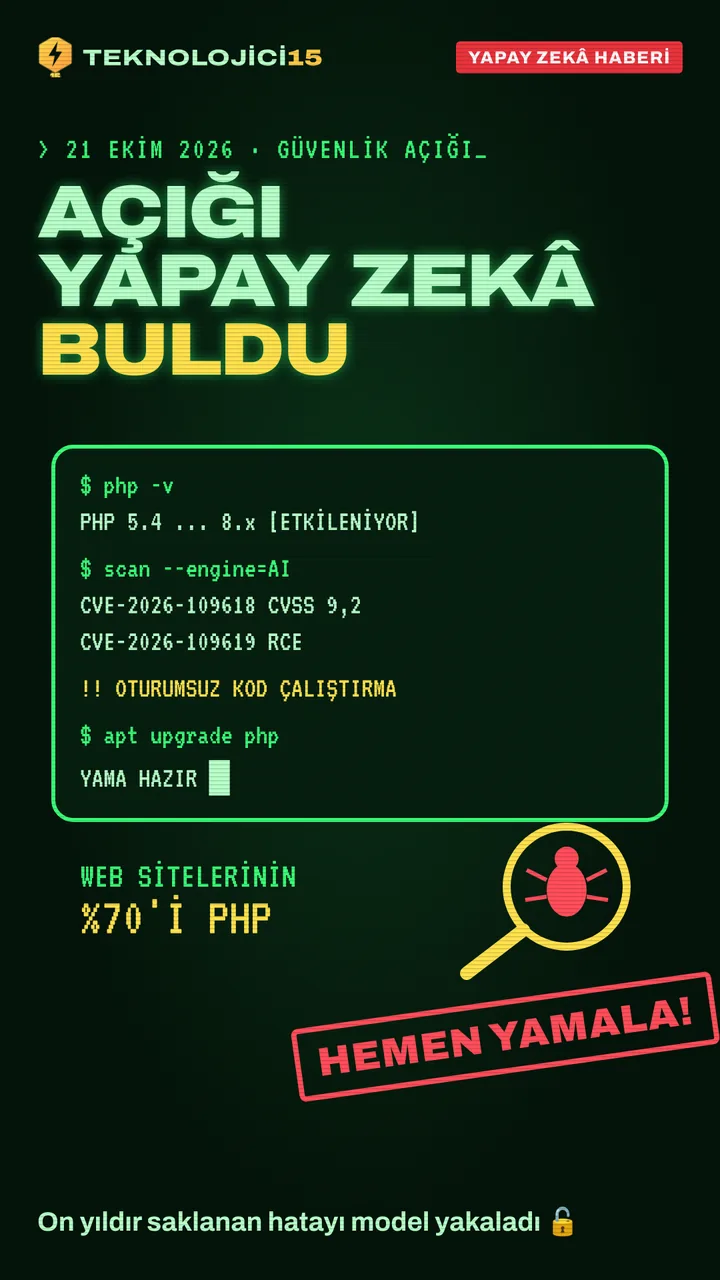
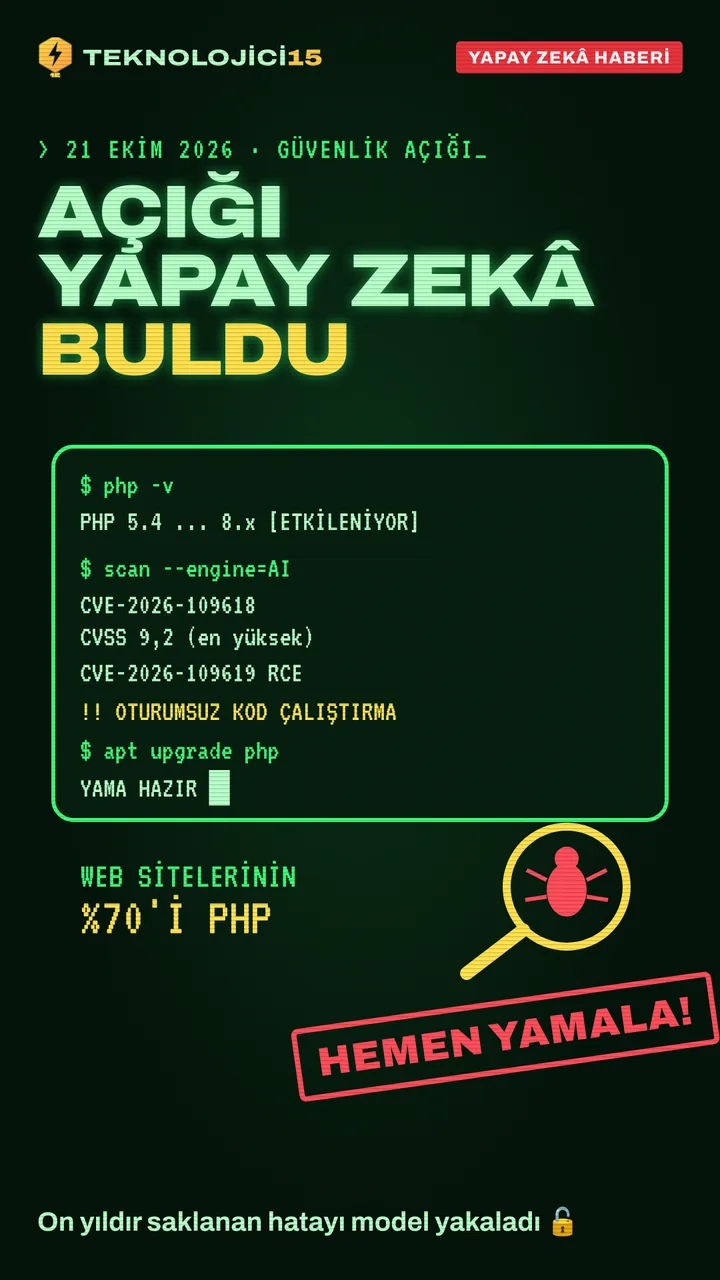
Direktör düzeltmeleri: haber doğrulukları, PHP kapağı, yol sonu 2026, kart görselleri, sayaç (ara kayıt)
Claude-Session: https://claude.ai/code/session_01U9M9YJXW5fxz1QHTUDKFSm

Changed region(s): [[0.0917, 0.4688, 0.55, 0.625]]

diff --git a/public/js/site.js b/public/js/site.js
@@ -80,6 +80,7 @@
   }
   function frame() {
     turnReels(); roadTick();
+    if (deck && deck.getAttribute('data-mode') === 'home' && shelf) { var rr = shelf.getBoundingClientRect(); deck.classList.toggle('is-off', !(rr.top < window.innerHeight * 0.6 && rr.bottom > window.innerHeight * 0.4)); }
     if (deck && deck.getAttribute('data-mode') === 'home') {
       if (shelf && inView(shelf.querySelector('[data-sc-stage]') ? shelf : shelf, 0.5) && shelf.getBoundingClientRect().top <= window.innerHeight * 0.25) {
         var i = nearestTape();
@@ -87,7 +88,7 @@
           if (current > -1 && tapes[current]) tapes[current].classList.remove('is-now');
           current = i; tapes[i].classList.add('is-now');
           setYear(tapes[i].getAttribute('data-year'), tapes[i].getAttribute('data-title'));
-          if (pcYear) pcYear.textContent = tapes[i].getAttribute('data-year');
+          if (pcYear) { var yv = tapes[i].getAttribute('data-year'); pcYear.textContent = yv; pcYear.classList.toggle('is-range', yv.length > 4); }
         }
       } else {
         if (current > -1 && tapes[current]) { tapes[current].classList.remove('is-now'); current = -1; }

diff --git a/public/css/site.css b/public/css/site.css
@@ -498,3 +498,17 @@ a:hover { text-decoration-color: var(--sc-accent); }
 @keyframes step { 0%, 100% { transform: rotate(18deg); } 50% { transform: rotate(-18deg); } }
 @media (prefers-reduced-motion: reduce) { .road.is-walking .pc, .road.is-walking .pc__legs i { animation: none; } }
 @media (max-width: 640px) { .pc { width: 110px; } .road .rail { padding-bottom: calc(var(--deck-h) + 24vh); } .road__sun { width: 30vh; } }
+
+/* director fixes */
+.pc__year { white-space: nowrap; font-size: clamp(20px, 2.1vw, 34px); }
+.pc__year.is-range { font-size: clamp(15px, 1.5vw, 24px); }
+.pc__cur { bottom: 12%; }
+.road .rail::after { content: ""; flex: 0 0 34vw; }
+.stop--final { flex-basis: min(22rem, 68vw); }
+.nb__img img { object-position: 50% 52%; }
+.nb__ch { top: auto; bottom: 10px; background: #000; }
+.nb__item--lead .nb__img { aspect-ratio: 4 / 3; }
+.nb__item--lead { align-self: start; }
+.deck { transition: opacity .25s var(--sc-ease-out), translate .25s var(--sc-ease-out); }
+.deck.is-off { opacity: 0; translate: 0 24px; pointer-events: none; }
+.deck__year { white-space: nowrap; }

diff --git a/tools/covers/src/2026-10-21-php2shell-yapay-zeka-acik.html b/tools/covers/src/2026-10-21-php2shell-yapay-zeka-acik.html
@@ -19,11 +19,11 @@
     <text x="60" y="90">$ php -v</text>
     <text x="60" y="145" fill="#B8FFC9">PHP 5.4 ... 8.x  [ETKİLENİYOR]</text>
     <text x="60" y="215">$ scan --engine=AI</text>
-    <text x="60" y="270" fill="#B8FFC9">CVE-2026-109618  CVSS 9,2</text>
-    <text x="60" y="325" fill="#B8FFC9">CVE-2026-109619  RCE</text>
-    <text x="60" y="395" fill="#FFE14D">!! OTURUMSUZ KOD ÇALIŞTIRMA</text>
-    <text x="60" y="465">$ apt upgrade php</text>
-    <text x="60" y="530" fill="#B8FFC9">YAMA HAZIR █</text>
+    <text x="60" y="270" fill="#B8FFC9">CVE-2026-109618</text><text x="60" y="318" fill="#B8FFC9">CVSS 9,2 (en yüksek)</text>
+    <text x="60" y="372" fill="#B8FFC9">CVE-2026-109619  RCE</text>
+    <text x="60" y="430" fill="#FFE14D">!! OTURUMSUZ KOD ÇALIŞTIRMA</text>
+    <text x="60" y="488">$ apt upgrade php</text>
+    <text x="60" y="545" fill="#B8FFC9">YAMA HAZIR █</text>
   </g>
   <!-- magnifier over bug -->
   <circle cx="790" cy="680" r="90" fill="none" stroke="#FFE14D" stroke-width="12"/>

diff --git a/content/haber/2026-10-27-oracle-google-tpu.md b/content/haber/2026-10-27-oracle-google-tpu.md
@@ -1,12 +1,12 @@
 ---
-title: "Google'ın yapay zekâ çipleri ilk kez başka bir bulutta: Oracle TPU sunacak"
+title: "Google'ın yapay zekâ çipleri ilk kez başka bir büyük bulutta: Oracle TPU sunacak"
 slug: "2026-10-27-oracle-google-tpu"
 date: "2026-10-27"
 rank: 2
 category: "Yapay Zekâ"
-excerpt: "Oracle, Google'ın sekizinci nesil TPU çiplerini 2027'den itibaren kendi bulutunda sunacak. TPU'lar ilk kez Google altyapısı dışına çıkıyor."
-hook: "Google'ın çipi Google'ın dışına çıkıyor"
-fact: "2,7 kat"
+excerpt: "Oracle, Google'ın sekizinci nesil TPU çiplerini 2027'den itibaren kendi bulutunda sunacak. TPU'lar ilk kez başka bir büyük bulut sağlayıcısında."
+hook: "Google'ın çipi rakip bulutta"
+fact: "2,7 kata kadar"
 factLabel: "TPU 8t'de dolar başına performans artışı"
 year: 2026
 yearLabel: "2026"
@@ -18,13 +18,13 @@ sources:
   - title: "Google alters its cloud playbook, enlisting partners to sell more AI chips (CNBC)"
     url: "https://www.cnbc.com/2026/10/28/google-alters-cloud-playbook-turning-to-partners-to-sell-more-ai-chips.html"
 ---
-Oracle, 27 Ekim'de Google'ın yapay zekâ çipleri olan TPU'ları (Tensor Processing Unit) kendi bulut platformu Oracle Cloud Infrastructure (OCI) üzerinden sunacağını açıkladı. Böylece müşteriler TPU'lara ilk kez Google'ın kendi altyapısı dışında erişebilecek.
+Oracle, 27 Ekim'de Google'ın yapay zekâ çipleri olan TPU'ları (Tensor Processing Unit) kendi bulut platformu Oracle Cloud Infrastructure (OCI) üzerinden sunacağını açıkladı. Google TPU'ları bu yılın ikinci çeyreğinde dış veri merkezlerine açmaya başlamıştı; ancak TPU'lar ilk kez Google Cloud dışındaki büyük bir bulut sağlayıcısında sunulacak.
 
 ## Ne oldu?
 
 Data Center Knowledge'a göre Oracle, Google'ın sekizinci nesil TPU ailesini sunacak: model eğitimi için TPU 8t, eğitilmiş modelleri çalıştırmak için TPU 8i. Bu çiplerin önceki nesle göre watt başına iki kata kadar performans verdiği; TPU 8t'nin dolar başına 2,7 kata kadar, TPU 8i'nin yüzde 80'e kadar daha iyi performans sağladığı belirtiliyor. TPU'lar OCI'da 2027'de kullanıma girecek.
 
-Oracle aynı duyuruda Cerebras, SambaNova, Positron AI ve OpenAI'nin Broadcom ile geliştirdiği çıkarım çiplerini de listesine ekledi. Nvidia ile ortaklık da büyüyor: Vera Rubin NVL72 sistemleri ve Vera işlemcileri OCI'da genel kullanıma açıldı.
+Oracle aynı dönemde Cerebras, SambaNova (ayrı bir duyuruyla), Positron AI ve OpenAI'nin Broadcom ile geliştirdiği çıkarım çiplerini de listesine ekledi. Nvidia ile ortaklık da büyüyor: Vera Rubin NVL72 sistemleri ve Vera işlemcileri OCI'da genel kullanıma açıldı.
 
 CNBC'ye göre bu adım, Google'ın çip işini kendi bulutunun ötesine taşıma stratejisinin parçası. Anthropic bir milyona kadar TPU kullanmak için on milyarlarca dolarlık bir anlaşma yapmış durumda; OpenAI'nin de Google'dan TPU almayı planladığı bildiriliyor. Analist tahminleri ise geniş bir aralığa yayılıyor: 2027 için TD Cowen 62,5 milyar, Wells Fargo yaklaşık 99 milyar dolarlık TPU satışı bekliyor.
 

diff --git a/content/haber/2026-10-26-anthropic-halka-arz-s1.md b/content/haber/2026-10-26-anthropic-halka-arz-s1.md
@@ -22,10 +22,10 @@ Claude modellerinin geliştiricisi Anthropic, 26 Ekim'de ABD Menkul Kıymetler v
 
 ## Ne oldu?
 
-Kamuya açılan izahname, şirketin mali tablosunu ilk kez ortaya koydu. CNBC'ye göre Anthropic 2026'nın ilk yarısında 16,29 milyar dolar gelir elde etti. Reuters, 30 Haziran'da biten çeyrekte gelirin bir yıl öncesine göre yüzde 1.368 arttığını yazdı. Aynı dönemde net zarar 80,7 milyar dolar. Ancak bunun yaklaşık 72 milyar doları, şirket değeri yükseldikçe hisseye dönüştürülebilir tahvillerin muhasebe değerinin artmasından kaynaklanıyor. Faaliyet zararı 693 milyon dolara geriledi.
+Kamuya açılan izahname, şirketin mali tablosunu ilk kez ortaya koydu. CNBC'ye göre Anthropic 2026'nın ilk yarısında 16,29 milyar dolar gelir elde etti. Reuters, 30 Haziran'da biten çeyrekte gelirin bir yıl öncesine göre yüzde 1.368 arttığını yazdı. 2026'nın ilk yarısında net zarar 80,7 milyar dolar. Ancak bunun yaklaşık 72 milyar doları, şirket değeri yükseldikçe hisseye dönüştürülebilir tahvillerin muhasebe değerinin artmasından kaynaklanıyor. Faaliyet zararı 693 milyon dolara geriledi.
 
-Halka arzın lider aracıları Goldman Sachs ve Morgan Stanley. Reuters'a göre işlemin Şükran Günü'nden önce tamamlanması bekleniyor. Beklenen değerleme kaynaklara göre 1,5 ile 2 trilyon dolar arasında; şirket Mayıs'ta 965 milyar dolar değerlemeyle fon toplamıştı. CNBC'ye göre Amazon 2023'ten bu yana 13 milyar dolar yatırdı ve payı yüzde 12 ile sınırlı. Alphabet'in ise halka arzla eş zamanlı 10 milyar dolara kadar hisse alma hakkı var.
+Halka arzın lider aracıları Goldman Sachs ve Morgan Stanley. Reuters'a göre işlemin Şükran Günü'nden önce tamamlanması bekleniyor. Reuters'a göre yatırımcıların biçtiği değer yaklaşık 1,5 trilyon dolar (bir hafta önce yaklaşık 2 trilyon); şirket Mayıs'ta 965 milyar dolar değerlemeyle fon toplamıştı. CNBC'ye göre Amazon 2023'ten bu yana 13 milyar dolar yatırdı ve payı yüzde 12 ile sınırlı. Alphabet'in ise halka arzla eş zamanlı 10 milyar dolara kadar hisse alma hakkı var.
 
 ## Neden önemli?
 
-Yatırımcılar ilk kez saf bir yapay zekâ laboratuvarının gelirini ve maliyetini açık defterden okuyabiliyor. Bu, aynı hafta yapay zekâ harcamaları yüzünden bir günde yaklaşık 500 milyar dolar değer kaybeden [Alphabet'in](/haber/2026-10-30-alphabet-500-milyar-dolar-kayip/) yaşadığı sorunun tam ortasına düşüyor: büyüme hızlı ama faturası da dev. Reuters'a göre Anthropic, Amazon ve Google gibi ortaklarla 600 milyar doları aşan bilişim anlaşmalarına imza atmış durumda. Gelirin bu taahhütlere ne kadar hızlı yetişeceği, halka arzın kaderini belirleyecek.
+Yatırımcılar ilk kez saf bir yapay zekâ laboratuvarının gelirini ve maliyetini açık defterden okuyabiliyor. Büyüme hızlı ama faturası da dev. Reuters'a göre Anthropic, Amazon ve Google gibi ortaklarla 600 milyar doları aşan bilişim anlaşmalarına imza atmış durumda. Gelirin bu taahhütlere ne kadar hızlı yetişeceği, halka arzın kaderini belirleyecek.

diff --git a/content/haber/2026-10-22-microsoft-mai-dxo-teshis.md b/content/haber/2026-10-22-microsoft-mai-dxo-teshis.md
@@ -22,7 +22,7 @@ Microsoft AI, 22 Ekim'de hakemli bilim dergisi Science'ta yayımlanan bir çalı
 
 ## Ne oldu?
 
-Sistem, New England Journal of Medicine'de yayımlanmış karmaşık vaka raporları üzerinde, simülasyon ortamında test edildi. TechCrunch ve The Verge'e göre MAI-DxO bu vakaların yaklaşık yüzde 83'ünde doğru teşhise ulaştı. Kaynaklara bakabilen pratisyen ve dahiliye hekimlerinin oranı yüzde 36, hiçbir kaynak kullanmayanlarınki yüzde 22 oldu. The Verge'ün aktardığına göre acil servis vakalarında sonuç yüzde 80'e karşı ortalama yüzde 47.
+Sistem, New England Journal of Medicine'de yayımlanmış karmaşık vaka raporları üzerinde, simülasyon ortamında test edildi. TechCrunch ve The Verge'e göre MAI-DxO bu vakaların yaklaşık yüzde 83'ünde doğru teşhise ulaştı. Kaynaklara bakabilen pratisyen ve dahiliye hekimlerinin oranı yüzde 36, hiçbir kaynak kullanmayanlarınki yüzde 22 oldu. Beth Israel'in hasta kabul veritabanından alınan acil servis vakalarında ise sonuç yüzde 80'e karşı ortalama yüzde 47 oldu.
 
 MAI-DxO tek bir model değil; farklı yapay zekâ modellerini bir hekim ekibi gibi birlikte çalıştıran bir düzenleyici. Microsoft, bu yapının tek başına çalışan bir modele göre maliyeti de düşürdüğünü söylüyor.
 
@@ -30,4 +30,4 @@ TechCrunch önemli bir çekinceye dikkat çekiyor: çalışmanın kendi verileri
 
 ## Neden önemli?
 
-Hakemli bir dergide yayımlanması, sonuçları şirket duyurularından daha sağlam bir zemine taşıyor. Yine de bu bir simülasyon, gerçek hastalarla yapılmış bir deney değil. Microsoft, Mayo Clinic ile sağlık için bir temel model eğitiyor ve Boston'daki Beth Israel Deaconess Tıp Merkezi ile sistemin klinik muhakemesini değerlendiriyor. Asıl soru, bu rakamların muayene odasında da tutup tutmayacağı.
+Hakemli bir dergide yayımlanması, sonuçları şirket duyurularından daha sağlam bir zemine taşıyor. Yine de bu bir simülasyon, gerçek hastalarla yapılmış bir deney değil. Microsoft, Mayo Clinic ile sağlık için bir temel model eğitiyor ve Boston'daki Beth Israel Deaconess Tıp Merkezi'nde gerçek dünya denemesi yürütüyor: onay veren hastaların bakımına MAI-DxO'nun önerileri de ekleniyor. Asıl soru, bu rakamların muayene odasında da tutup tutmayacağı.

diff --git a/content/haber/2026-10-20-abd-deepseek-yasagi.md b/content/haber/2026-10-20-abd-deepseek-yasagi.md
@@ -24,7 +24,7 @@ ABD İç Güvenlik Bakanlığı (DHS), 20 Ekim'de Federal Register'da yayımlana
 
 Emir iki şey yapıyor. İlki, Hangzhou merkezli DeepSeek ile bağlı şirketlerinin geliştirdiği bilgi teknolojisi ürün ve hizmetlerini federal sivil kurumların alımlarından dışlıyor. İkincisi, DeepSeek ürünlerini ve DeepSeek teknolojisiyle geliştirilmiş üçüncü taraf ürün ve hizmetleri kurumların sistemlerinden kaldırmayı zorunlu kılıyor. TechCrunch'a göre kurumlar istisna talep edebiliyor. Dayanak, 2018 tarihli Federal Tedarik Zinciri Güvenliği Yasası.
 
-DHS gerekçe olarak verinin işlenme biçimini gösteriyor: ABD'li kamu kullanıcılarına ait hassas bilgilerin Çin yasaları gereği Çinli yetkililerin erişimine açılabileceği uyarısında bulunuyor. Çin Dışişleri Bakanlığı Sözcüsü Mao Ning ise ulusal güvenlik kavramının aşırı genişletilmesine ve teknoloji konularının siyasallaştırılmasına karşı olduklarını, Çinli şirketlerin haklarını savunacaklarını söyledi.
+DHS gerekçe olarak verinin işlenme biçimini gösteriyor: ABD'li kamu kullanıcılarına ait hassas bilgilerin Çin yasaları gereği Çinli yetkililerin erişimine açılabileceği uyarısında bulunuyor. Çin Dışişleri Bakanlığı Sözcüsü Mao Ning ise ulusal güvenlik kavramının aşırı genişletilmesine ve teknoloji ve ticaret konularının siyasallaştırılmasına karşı olduklarını, Çinli şirketlerin haklarını savunacaklarını söyledi.
 
 ABD, Aralık 2025'te çıkan bir yasayla DeepSeek'in istihbarat ve ulusal güvenlik sistemlerinde kullanımını zaten kısıtlamıştı. Yeni emir bunu sivil kurumlara, hem yeni alımlara hem de çalışan sistemlere genişletiyor.
 

diff --git a/content/haber/2026-10-21-php2shell-yapay-zeka-acik.md b/content/haber/2026-10-21-php2shell-yapay-zeka-acik.md
@@ -22,7 +22,7 @@ PHP geliştiricileri 21 Ekim'de dilin çekirdek motorundaki iki kritik güvenlik
 
 ## Ne oldu?
 
-Güvenlik şirketi Wiz'in açıklamasına göre açıklar 19 Ağustos'ta keşfedildi ve 24 Ağustos'ta PHP güvenlik ekibine bildirildi. Keşifte Wiz'in kendi aracı Wiz Atlas ile OpenAI'nin GPT-5.6 Sol ve Google'ın Gemini 4 Argon modelleri kullanıldı. Fortune, yapay zekâ güvenlik testi firması Calif ile OpenAI'nin de sürece katkı verdiğini yazdı.
+Fortune'a göre yapay zekâ güvenlik testi firması Calif zincirin ilk parçasını 1 Ağustos'ta GPT-5.6 Sol ile buldu; Wiz ise ilk açığı bağımsız olarak 19 Ağustos'ta tespit etti ve 24 Ağustos'ta PHP güvenlik ekibine bildirdi. Keşifte Wiz'in kendi aracı Wiz Atlas ile OpenAI'nin GPT-5.6 Sol ve Google'ın Gemini 4 Argon modelleri kullanıldı.
 
 Açıklar, saldırganın oturum açmadan sunucuda uzaktan kod çalıştırmasına ve bellekteki verileri sızdırmasına izin veriyor. Wiz'e göre son on yılda çıkan neredeyse her PHP sürümü, 5.4'e kadar geriye, etkileniyor. En yüksek önem puanı CVSS ölçeğinde 9,2. PHP, dünyadaki web sitelerinin yaklaşık yüzde 70'inin arkasında çalışıyor; tek başına WordPress bile sitelerin kabaca yüzde 40'ını yönetiyor. Fortune'un güncellenen haberine göre açıklar, yamanın ardından geniş çapta istismar edilmeye başlandı.
 

diff --git a/content/haber/2026-10-27-deepmind-genie-4.md b/content/haber/2026-10-27-deepmind-genie-4.md
@@ -26,7 +26,7 @@ DeepMind'a göre Genie 4, şirketin sesi doğrudan üreten ilk gerçek zamanlı 
 
 Kullanıcı, çalışan bir dünyayı düz yazıyla yönlendirebiliyor. Havayı değiştirmek, kamerayı oynatmak ya da sahneye yeni kişi ve nesneler eklemek mümkün; komutları Gemini modelleri yorumluyor. DeepMind modeli robotlar ve yapay zekâ ajanları için eğitim ortamı, oyun tasarımında prototip ve filmlerde ön görselleştirme aracı olarak konumluyor. Tek bir arşiv fotoğrafını gezilebilir bir sahneye dönüştüren örnekler de paylaşıldı.
 
-Şimdilik model yalnızca seçilmiş test kullanıcılarına açık. Erişim yakında Project Genie üzerinden Google AI Ultra abonelerine, ardından Gemini API ve AI Studio'nun erken erişim ortaklarına aşamalı olarak genişleyecek.
+Şimdilik model yalnızca seçilmiş test kullanıcılarına açık. Erişim yakında Project Genie üzerinden Google AI Ultra abonelerine ve Gemini API ve AI Studio'nun erken erişim ortaklarına aşamalı olarak genişleyecek.
 
 ## Neden önemli?
 
